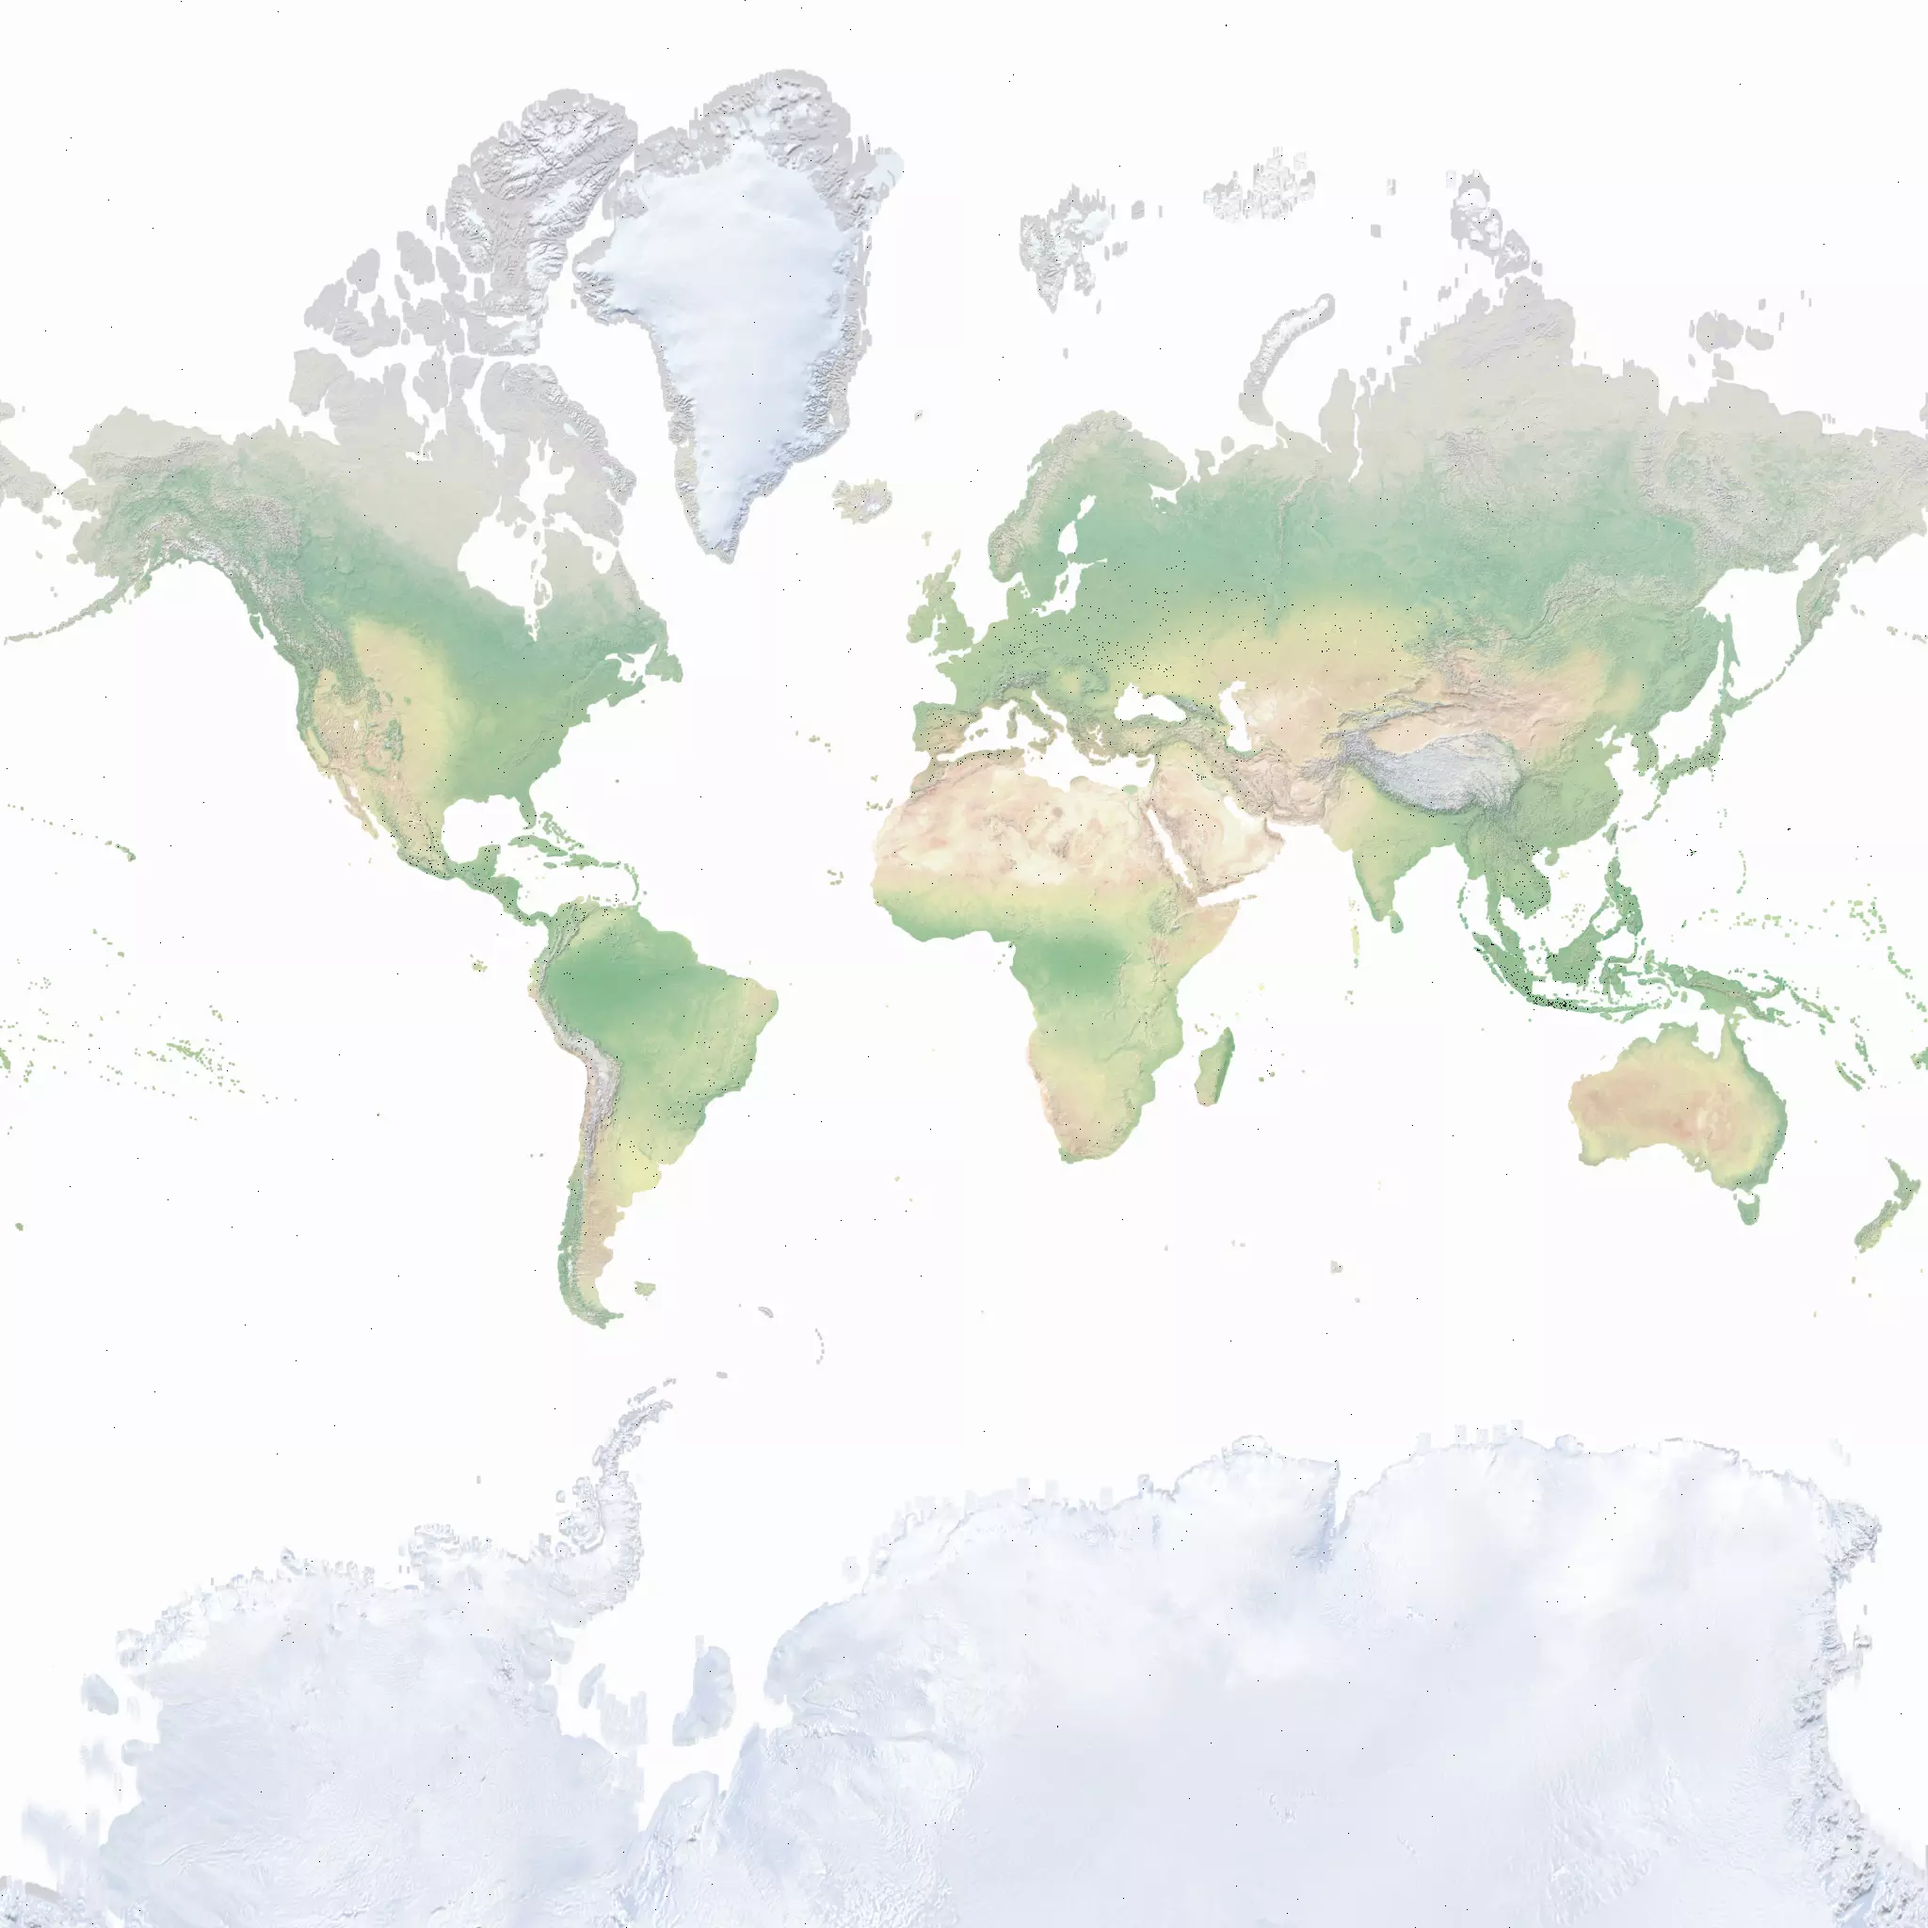
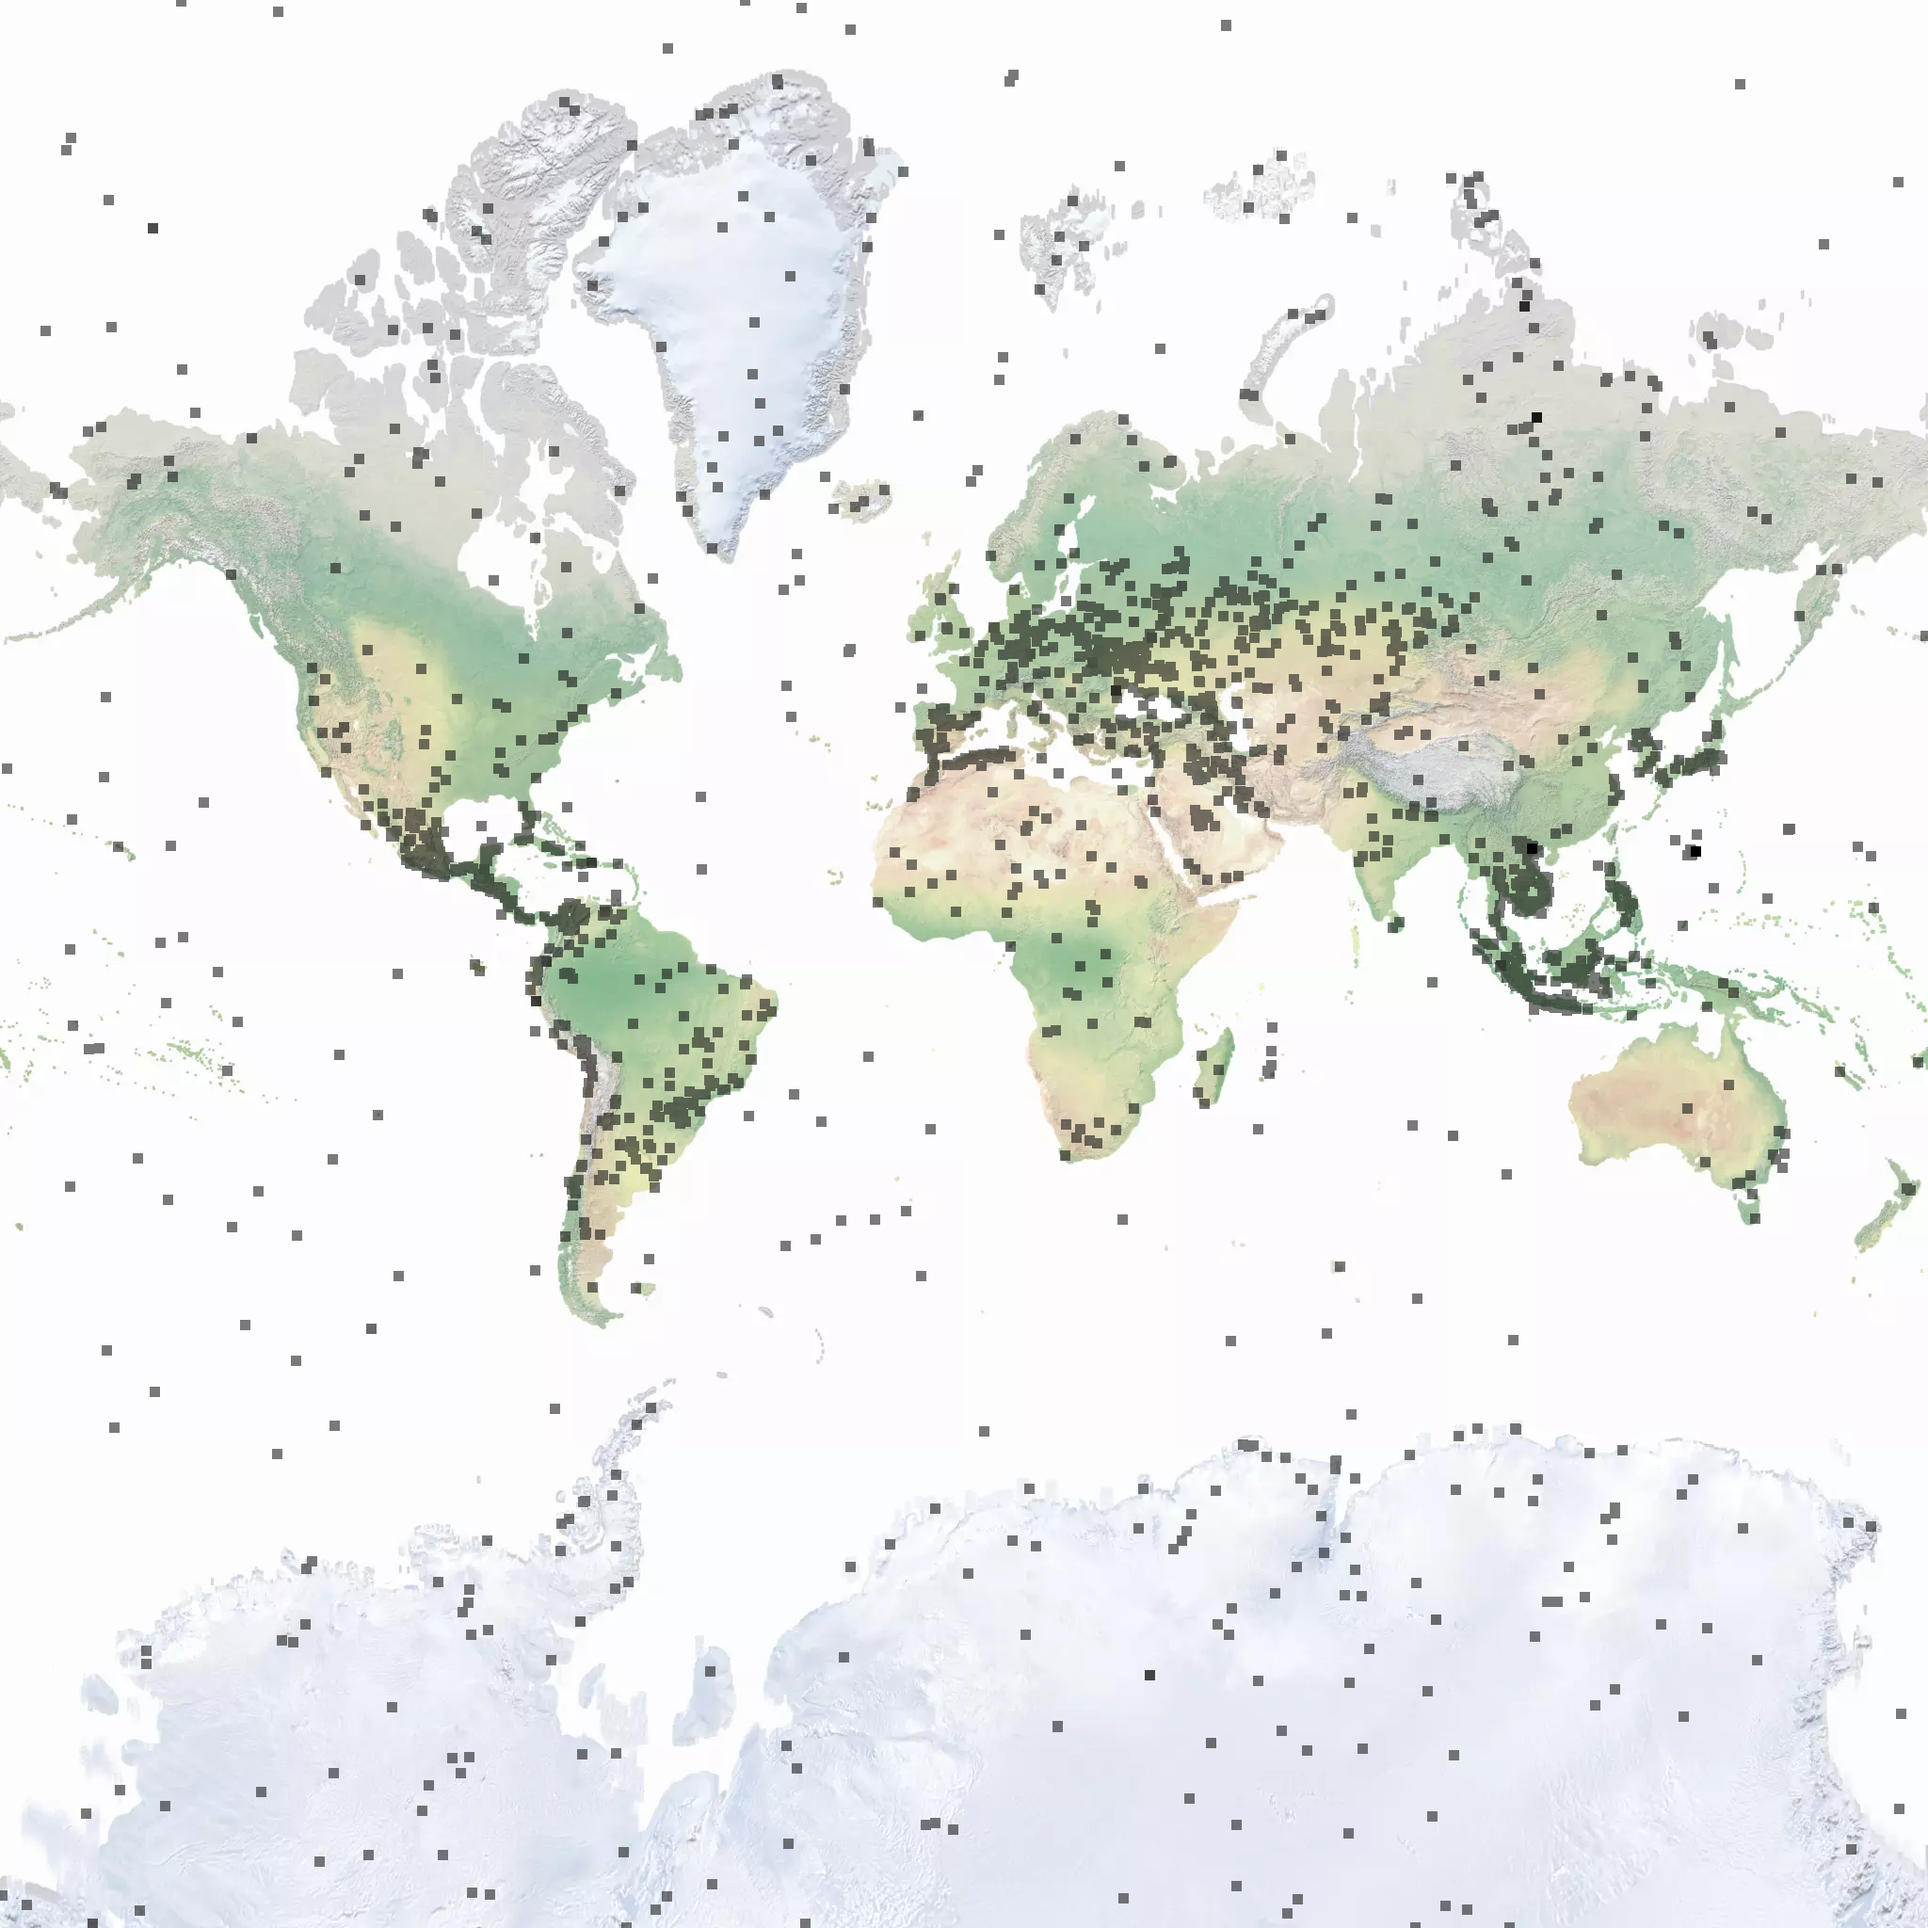
Heatmap done

diff --git a/Wplace/heatmap.py b/Wplace/heatmap.py
@@ -46,15 +46,29 @@ def parse_coords(filepath: str) -> dict[tuple[int, int], int]:
     return counts
 
 
-def build_heatmap_array(counts: dict[tuple[int, int], int], size: int = 2048) -> np.ndarray:
+def build_heatmap_array(counts: dict[tuple[int, int], int], size: int = 2048, mark_size: int = 1) -> np.ndarray:
     """
     Build a float32 array [size x size] with values in [0.0, 1.0].
     Values are normalised to the maximum occurrence count.
+
+    mark_size: each coordinate is stamped onto a (mark_size x mark_size) square
+               centered on that pixel. Must be a positive odd integer; even values
+               are rounded up to the next odd number so centering is exact.
     """
+    # Ensure mark_size is odd so the square centres cleanly on the pixel.
+    if mark_size % 2 == 0:
+        mark_size += 1
+
     grid = np.zeros((size, size), dtype=np.float32)
+    half = mark_size // 2
 
     for (x, y), count in counts.items():
-        grid[y, x] = count  # row = y, col = x
+        r0 = max(0, y - half)
+        r1 = min(size, y + half + 1)
+        c0 = max(0, x - half)
+        c1 = min(size, x + half + 1)
+        # Use the max so overlapping marks don't artificially inflate counts.
+        grid[r0:r1, c0:c1] = np.maximum(grid[r0:r1, c0:c1], count)
 
     max_val = grid.max()
     if max_val > 0:
@@ -62,88 +76,45 @@ def build_heatmap_array(counts: dict[tuple[int, int], int], size: int = 2048) ->
 
     return grid
 
+
 def red_hot_rgba(intensity: np.ndarray) -> np.ndarray:
-  """
-  Test substitute: any pixel with a non-zero intensity becomes
-  fully opaque black. Zero-intensity pixels remain transparent.
-  """
-  h, w = intensity.shape
-  rgba = np.zeros((h, w, 4), dtype=np.uint8)
+    """
+    Map intensity [0..1] to black with alpha in [50%, 100%].
 
-  hit = intensity > 0
-  rgba[hit, 3] = 255  # alpha = fully opaque where any match exists
+    Pixels with zero intensity remain fully transparent.
+    Any hit maps to at least 50% opacity; the highest-count pixel
+    reaches 100% opacity. RGB is always black (0, 0, 0).
+    """
+    h, w = intensity.shape
+    rgba = np.zeros((h, w, 4), dtype=np.uint8)
 
-  # RGB stays 0 (black)
+    hit = intensity > 0
 
-  return rgba
+    # Remap [0..1] -> [0.5..1.0], but only where there is a hit.
+    alpha = np.where(hit, 0.5 + intensity * 0.5, 0.0)
+    rgba[:, :, 3] = (alpha * 255).astype(np.uint8)
 
-# def red_hot_rgba(intensity: np.ndarray) -> np.ndarray:
-#     """
-#     Map intensity [0..1] to a red-hot RGBA colour.
+    # RGB stays 0 (black).
 
-#     Red-hot palette:
-#         0.00 -> black  (0,   0,   0)
-#         0.33 -> red    (255, 0,   0)
-#         0.66 -> orange (255, 165, 0)
-#         1.00 -> white  (255, 255, 255)
+    return rgba
 
-#     Alpha equals intensity (so zero-count pixels are fully transparent).
-#     """
-#     h, w = intensity.shape
-#     rgba = np.zeros((h, w, 4), dtype=np.uint8)
-
-#     i = intensity  # shorthand
-
-#     # --- Red channel ---
-#     # black->red in [0, 0.33], red->orange in [0.33, 0.66], orange->white in [0.66, 1.0]
-#     r = np.where(i <= 0.33, i / 0.33,
-#         np.where(i <= 0.66, 1.0,
-#                              1.0))
-#     rgba[:, :, 0] = (r * 255).astype(np.uint8)
-
-#     # --- Green channel ---
-#     # 0 until 0.66, then ramps to 255 by 1.0
-#     g = np.where(i <= 0.66, 0.0,
-#                               (i - 0.66) / 0.34)
-#     rgba[:, :, 1] = (g * 255).astype(np.uint8)
-
-#     # --- Blue channel ---
-#     # stays 0 until 0.85, then ramps to 255 (gives the "white-hot" tip)
-#     b = np.where(i <= 0.85, 0.0,
-#                               (i - 0.85) / 0.15)
-#     rgba[:, :, 2] = (b * 255).astype(np.uint8)
-
-#     # --- Alpha channel --- proportional to intensity
-#     rgba[:, :, 3] = (i * 255).astype(np.uint8)
-
-#     return rgba
-
-
-# def composite(base: Image.Image, heatmap_rgba: np.ndarray) -> Image.Image:
-#     """Alpha-composite the heatmap over the base image."""
-#     base_rgba = base.convert("RGBA")
-#     heat_img = Image.fromarray(heatmap_rgba, mode="RGBA")
-#     result = Image.alpha_composite(base_rgba, heat_img)
-#     return result
 
 def composite(base: Image.Image, heatmap_rgba: np.ndarray) -> Image.Image:
     """Alpha-composite the heatmap over the base image."""
     base_rgba = base.convert("RGBA")
     heat_img = Image.fromarray(heatmap_rgba, mode="RGBA")
-    # Split off the alpha channel to use as a paste mask
-    r, g, b, a = heat_img.split()
-    base_rgba.paste(heat_img, mask=a)
-    return base_rgba
+    result = Image.alpha_composite(base_rgba, heat_img)
+    return result
 
 
 def main():
-    print("Starting...")
-
-    if len(sys.argv) != 4:
-        print("Usage: python heatmap.py <coords_file> <input_image> <output_image>")
+    if len(sys.argv) not in (4, 5):
+        print("Usage: python heatmap.py <coords_file> <input_image> <output_image> [mark_size]")
+        print("  mark_size: odd integer, size of the square stamp per coordinate (default: 1)")
         sys.exit(1)
 
     coords_file, input_image, output_image = sys.argv[1], sys.argv[2], sys.argv[3]
+    mark_size = int(sys.argv[4]) if len(sys.argv) == 5 else 1
 
     # --- Validate inputs ---
     if not Path(coords_file).exists():
@@ -172,12 +143,12 @@ def main():
         return
 
     # --- Build heatmap ---
-    print("Building heatmap...")
-    grid = build_heatmap_array(counts)
+    print(f"Building heatmap (mark_size={mark_size}) ...")
+    grid = build_heatmap_array(counts, mark_size=mark_size)
     heatmap_rgba = red_hot_rgba(grid)
 
     # --- Composite ---
-    print("Compositing...")
+    print("Compositing ...")
     result = composite(base, heatmap_rgba)
 
     # --- Save ---
